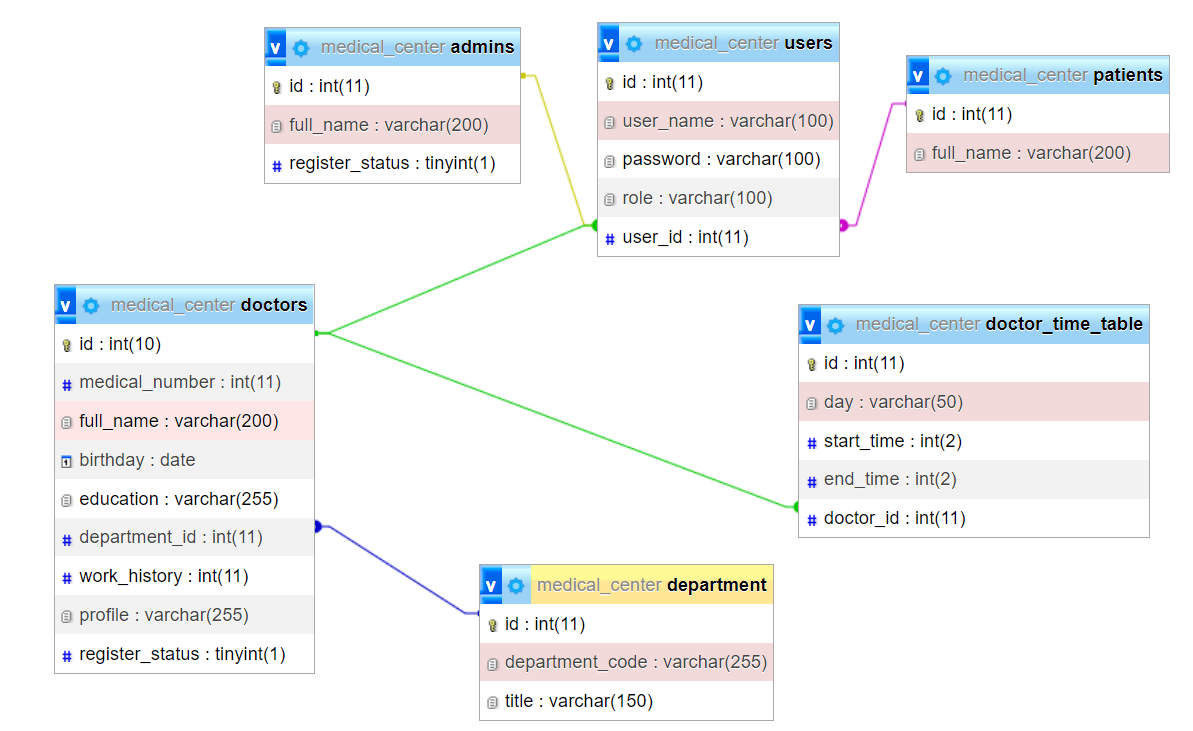
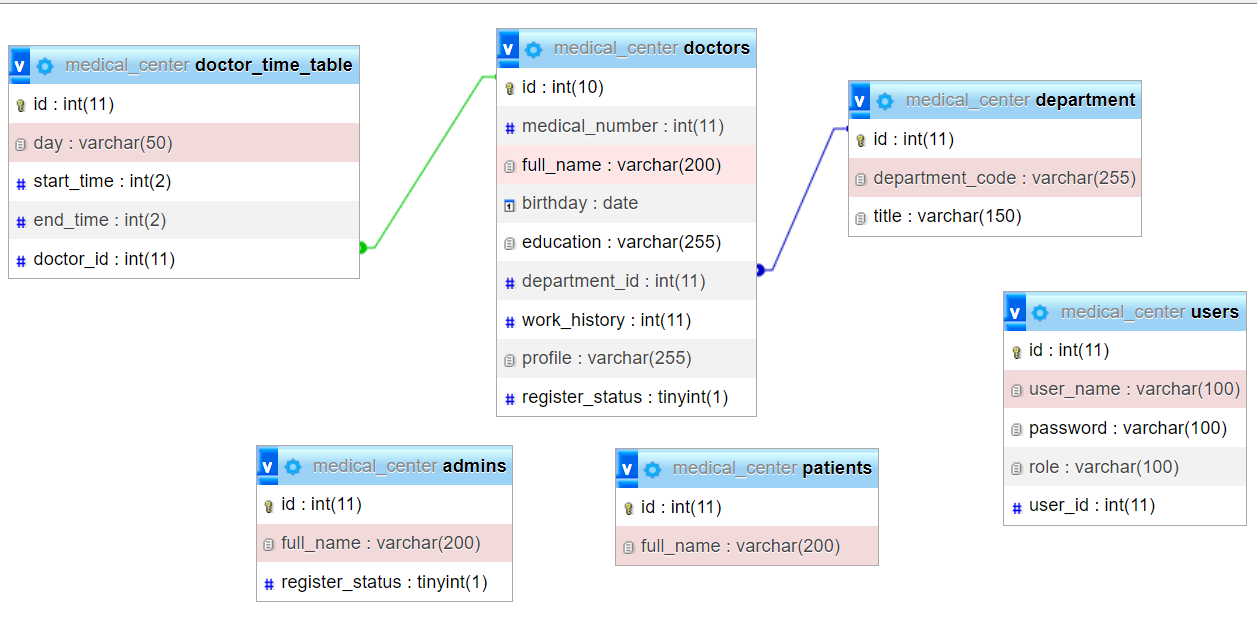
updated db

diff --git a/Maktab_M86_HW13_Amirmohammad_Mohtari/src/Router.php b/Maktab_M86_HW13_Amirmohammad_Mohtari/src/Router.php
@@ -3,6 +3,7 @@
 namespace src;
 
 use mysql_xdevapi\BaseResult;
+use src\database\QueryBuilder;
 
 class Router
 {
@@ -63,8 +64,12 @@ class Router
 
     private function signed()
     {
-        if (isset($_SESSION["user_id"])){
-            return $_SESSION['user_name'];
+        if (isset($_SESSION["auth_id"])){
+            $user = QueryBuilder::table($_SESSION["auth_role"] . "s")
+                ->select(['full_name'])
+                ->where('id', $_SESSION['auth_id'])
+                ->first();
+            return $user->full_name;
         }
         ob_start();
         include_once __DIR__ ."/views/layouts/signHeader.php";

diff --git a/Maktab_M86_HW13_Amirmohammad_Mohtari/src/Repository/MySqlUserRepository.php b/Maktab_M86_HW13_Amirmohammad_Mohtari/src/Repository/MySqlUserRepository.php
@@ -23,12 +23,10 @@ class MySqlUserRepository implements RepositoryInterface {
 
     public function findByUserName(string $userName) {
 
-        return QueryBuilder::table('patients')
-            ->select(['id', 'user_name', 'password', 'full_name'])
-            ->union('doctors', ['id', 'user_name', 'password', 'full_name'])
-            ->union('admins', ['id', 'user_name', 'password', 'full_name'])
+        return QueryBuilder::table('users')
+            ->select()
             ->where('user_name', $userName)
-                ->first();
+            ->first();
     }
 
 }

diff --git a/Maktab_M86_HW13_Amirmohammad_Mohtari/src/Controller/LoginController.php b/Maktab_M86_HW13_Amirmohammad_Mohtari/src/Controller/LoginController.php
@@ -33,8 +33,8 @@ class LoginController
             exit();
         }
 
-        (new Session)->setSession("auth_id", $user->id);
-        (new Session)->setSession("authName", $user->full_name);
+        (new Session)->setSession("auth_id", $user->user_id);
+        (new Session)->setSession("auth_role", $user->role);
 
          header('Location: home');
         exit();

diff --git a/Maktab_M86_HW13_Amirmohammad_Mohtari/src/Controller/LoggedController.php b/Maktab_M86_HW13_Amirmohammad_Mohtari/src/Controller/LoggedController.php
@@ -6,7 +6,6 @@ use src\Application;
 
 class LoggedController
 {
-
     public function logout(){
         Session::destroy();
         header('Location: login');
